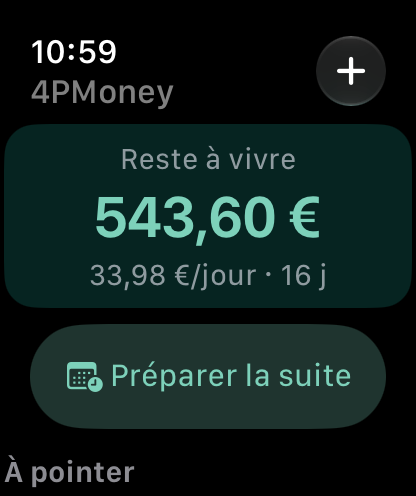
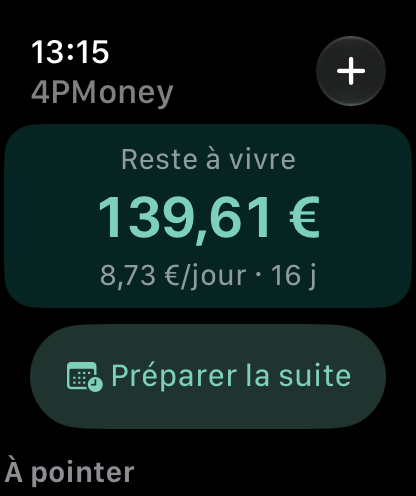
Product page: narrow notch on iPhone frames, depth, refreshed watch visual

diff --git a/index.html b/index.html
@@ -179,6 +179,99 @@ footer nav{display:flex;flex-wrap:wrap;gap:.4rem 1.2rem}
   .btn{width:100%}
   .barre .btn{width:auto}.marque{flex-shrink:0}
 }
+
+/* ——— Profondeur : lumière, relief et plans successifs ——— */
+:root{
+  --relief:0 1px 2px rgba(22,33,31,.06),0 6px 14px -4px rgba(22,33,31,.08),0 22px 44px -18px rgba(22,33,31,.16);
+  --relief-haut:0 2px 4px rgba(22,33,31,.07),0 14px 28px -8px rgba(22,33,31,.14),0 40px 70px -24px rgba(22,33,31,.24);
+  --appareil:0 2px 3px rgba(8,14,13,.35),0 18px 30px -10px rgba(8,14,13,.32),0 60px 90px -30px rgba(8,14,13,.42);
+  --reflet:inset 0 1px 0 rgba(255,255,255,.75);--halo:.30;
+}
+@media (prefers-color-scheme:dark){:root:not([data-theme="light"]){
+  --relief:0 1px 2px rgba(0,0,0,.35),0 8px 18px -6px rgba(0,0,0,.4),0 26px 50px -20px rgba(0,0,0,.55);
+  --relief-haut:0 2px 4px rgba(0,0,0,.4),0 16px 32px -8px rgba(0,0,0,.5),0 44px 80px -24px rgba(0,0,0,.7);
+  --appareil:0 2px 3px rgba(0,0,0,.6),0 18px 30px -10px rgba(0,0,0,.6),0 60px 90px -30px rgba(0,0,0,.8);
+  --reflet:inset 0 1px 0 rgba(255,255,255,.06);--halo:.22;
+}}
+:root[data-theme="dark"]{
+  --relief:0 1px 2px rgba(0,0,0,.35),0 8px 18px -6px rgba(0,0,0,.4),0 26px 50px -20px rgba(0,0,0,.55);
+  --relief-haut:0 2px 4px rgba(0,0,0,.4),0 16px 32px -8px rgba(0,0,0,.5),0 44px 80px -24px rgba(0,0,0,.7);
+  --appareil:0 2px 3px rgba(0,0,0,.6),0 18px 30px -10px rgba(0,0,0,.6),0 60px 90px -30px rgba(0,0,0,.8);
+  --reflet:inset 0 1px 0 rgba(255,255,255,.06);--halo:.22;
+}
+
+/* Les appareils inclinés ne doivent jamais élargir la page. */
+main{overflow-x:clip}
+/* Fond du haut de page : quatre lueurs aux couleurs des enveloppes, derrière tout le reste. */
+.hero{position:relative;overflow:hidden;isolation:isolate}
+.hero::before{content:"";position:absolute;inset:-20% -10% -10%;z-index:-1;pointer-events:none;opacity:var(--halo);filter:blur(60px);
+  background:
+    radial-gradient(34rem 26rem at 78% 30%,var(--prevoir),transparent 70%),
+    radial-gradient(26rem 22rem at 96% 72%,var(--profiter),transparent 70%),
+    radial-gradient(24rem 20rem at 58% 88%,var(--plaisir),transparent 70%),
+    radial-gradient(26rem 20rem at 8% 6%,var(--proteger),transparent 70%)}
+.hero::after{content:"";position:absolute;inset:auto 0 0;height:7rem;z-index:-1;pointer-events:none;background:linear-gradient(to bottom,transparent,var(--fond))}
+
+/* Téléphone : châssis à reflet, encoche étroite, vitre, ombre portée en trois couches. */
+.tel{position:relative;background:linear-gradient(145deg,#4b5654 0%,#0c1211 22%,#0a0f0e 78%,#39433f 100%);border:0;
+  box-shadow:inset 0 0 0 1.5px rgba(255,255,255,.14),inset 0 0 0 3px #050908,var(--appareil)}
+.tel::before{content:"";position:absolute;z-index:2;left:50%;top:calc(.55rem + 1.55%);width:20%;aspect-ratio:3.2/1;transform:translateX(-50%);border-radius:999px;
+  background:radial-gradient(circle at 76% 50%,#1b2a3a 0 9%,#0b1016 10% 15%,transparent 16%),#000;box-shadow:0 0 0 1px rgba(255,255,255,.05)}
+.tel::after{content:"";position:absolute;inset:.55rem;z-index:1;border-radius:2.4rem;pointer-events:none;
+  background:linear-gradient(118deg,rgba(255,255,255,.16) 0%,rgba(255,255,255,.04) 22%,transparent 38%)}
+.visuel .tel::before{top:calc(.55rem + 1.55%)}
+.montre{background:linear-gradient(145deg,#4b5654 0%,#0c1211 24%,#0a0f0e 76%,#39433f 100%);border:0;
+  box-shadow:inset 0 0 0 1.5px rgba(255,255,255,.14),var(--appareil)}
+
+/* Scène d'ouverture : téléphone incliné, montre au premier plan, socle lumineux et ombre au sol. */
+.scene{perspective:1500px;--tx:0;--ty:0;--d:0px}
+.scene::before{content:"";position:absolute;left:50%;top:46%;width:30rem;max-width:120%;aspect-ratio:1;transform:translate(-50%,-50%);border-radius:50%;z-index:-1;pointer-events:none;
+  background:radial-gradient(closest-side,color-mix(in srgb,var(--carte) 85%,transparent),transparent 72%)}
+.scene::after{content:"";position:absolute;left:50%;bottom:-1.6rem;width:19rem;max-width:80%;height:2.6rem;transform:translateX(-46%);border-radius:50%;z-index:-1;pointer-events:none;
+  background:radial-gradient(closest-side,rgba(8,14,13,.38),transparent);filter:blur(10px)}
+.scene .tel{transform:translateY(calc(var(--d) * -.35)) rotateY(calc(-13deg + var(--tx) * 6deg)) rotateX(calc(5deg + var(--ty) * -5deg)) rotateZ(1.2deg);transform-origin:50% 60%;transition:transform .5s cubic-bezier(.2,.7,.2,1);will-change:transform}
+.scene .montre{z-index:3;transform:translateY(calc(var(--d) * -.9)) translateZ(90px) rotateY(calc(9deg + var(--tx) * 9deg)) rotateX(calc(var(--ty) * -6deg)) rotateZ(-3deg);transition:transform .5s cubic-bezier(.2,.7,.2,1);will-change:transform}
+
+/* Captures des étapes : inclinaison alternée et lueur de la couleur de l'enveloppe concernée. */
+.visuel{perspective:1300px;position:relative;isolation:isolate}
+.visuel::before{content:"";position:absolute;left:50%;top:50%;width:26rem;max-width:115%;aspect-ratio:1;transform:translate(-50%,-50%);border-radius:50%;z-index:-1;pointer-events:none;filter:blur(40px);opacity:var(--halo);
+  background:radial-gradient(closest-side,var(--lueur,var(--prevoir)),transparent 75%)}
+.etape:nth-child(2) .visuel{--lueur:var(--plaisir)}.etape:nth-child(3) .visuel{--lueur:var(--proteger)}
+.visuel .tel{transform:rotateY(-11deg) rotateX(3deg);transition:transform .7s cubic-bezier(.2,.7,.2,1)}
+.etape:nth-child(even) .visuel .tel{transform:rotateY(11deg) rotateX(3deg)}
+.etape:hover .visuel .tel{transform:rotateY(-4deg) rotateX(1deg) translateY(-6px)}
+.etape:nth-child(even):hover .visuel .tel{transform:rotateY(4deg) rotateX(1deg) translateY(-6px)}
+
+/* Cartes : reflet en haut, ombre en couches, léger soulèvement au survol. */
+.env,.regle,.app,.pilier,.offre,.edition{box-shadow:var(--reflet),var(--relief);transition:transform .35s cubic-bezier(.2,.7,.2,1),box-shadow .35s ease}
+.simu{box-shadow:var(--reflet),var(--relief-haut)}
+.offre.mise{box-shadow:var(--reflet),var(--relief-haut);transform:translateY(-.5rem)}
+@media (hover:hover){
+  .env:hover,.regle:hover,.app:hover,.pilier:hover,.edition:hover,.offre:hover{transform:translateY(-5px);box-shadow:var(--reflet),var(--relief-haut)}
+  .offre.mise:hover{transform:translateY(-.8rem)}
+}
+.env{background-image:linear-gradient(160deg,color-mix(in srgb,var(--carte) 55%,transparent),transparent 55%)}
+.app .cadre{box-shadow:var(--relief)}
+.btn.plein{box-shadow:inset 0 1px 0 rgba(255,255,255,.22),0 8px 18px -8px color-mix(in srgb,var(--accent) 70%,transparent)}
+.btn{transition:transform .2s ease,box-shadow .2s ease}.btn:hover{transform:translateY(-1px)}
+.fin img{box-shadow:var(--relief-haut)}
+.etape .rang{box-shadow:0 6px 14px -6px color-mix(in srgb,var(--accent) 80%,transparent)}
+
+/* Sections teintées : en creux, comme un plan situé derrière la page. */
+section.teinte{background:linear-gradient(to bottom,color-mix(in srgb,var(--teinte) 100%,transparent),var(--teinte) 60%,color-mix(in srgb,var(--teinte) 70%,var(--fond)));box-shadow:inset 0 14px 22px -18px rgba(8,14,13,.22),inset 0 -14px 22px -18px rgba(8,14,13,.14)}
+header.barre{box-shadow:0 10px 24px -20px rgba(8,14,13,.5)}
+
+@media (max-width:60rem){
+  .scene{margin-top:1rem;padding-bottom:1.5rem}
+  .scene .tel{transform:rotateY(-8deg) rotateX(3deg) rotateZ(.8deg)}
+  .scene .montre{transform:translateZ(60px) rotateY(7deg) rotateZ(-3deg)}
+  .visuel .tel,.etape:nth-child(even) .visuel .tel{transform:rotateY(-7deg) rotateX(2deg)}
+  .offre.mise{transform:none}
+}
+@media (prefers-reduced-motion:reduce){
+  .scene .tel,.scene .montre,.visuel .tel,.env,.regle,.app,.pilier,.offre,.edition,.btn{transition:none}
+  .env:hover,.regle:hover,.app:hover,.pilier:hover,.edition:hover,.offre:hover,.btn:hover{transform:none}
+}
 </style>
 </head>
 <body>
@@ -500,6 +593,26 @@ footer nav{display:flex;flex-wrap:wrap;gap:.4rem 1.2rem}
     var obs=new IntersectionObserver(function(es){es.forEach(function(e){if(e.isIntersecting){e.target.classList.add("vu");obs.unobserve(e.target)}})},{rootMargin:"0px 0px -8% 0px"});
     els.forEach(function(e){obs.observe(e)});
   }else{els.forEach(function(e){e.classList.add("vu")})}
+
+  // Profondeur : la scène d'ouverture suit doucement le pointeur et le défilement (jamais si « Réduire les animations »).
+  var scene=document.querySelector(".scene");
+  if(scene&&!matchMedia("(prefers-reduced-motion: reduce)").matches){
+    if(matchMedia("(hover:hover) and (pointer:fine)").matches){
+      var hero=document.querySelector(".hero");
+      hero.addEventListener("pointermove",function(e){
+        var r=scene.getBoundingClientRect();
+        var x=Math.max(-1,Math.min(1,(e.clientX-(r.left+r.width/2))/(r.width/2)));
+        var y=Math.max(-1,Math.min(1,(e.clientY-(r.top+r.height/2))/(r.height/2)));
+        scene.style.setProperty("--tx",x.toFixed(3));scene.style.setProperty("--ty",y.toFixed(3));
+      });
+      hero.addEventListener("pointerleave",function(){scene.style.setProperty("--tx",0);scene.style.setProperty("--ty",0)});
+    }
+    var attente=false;
+    addEventListener("scroll",function(){
+      if(attente)return;attente=true;
+      requestAnimationFrame(function(){attente=false;scene.style.setProperty("--d",Math.min(60,scrollY*.08).toFixed(1)+"px")});
+    },{passive:true});
+  }
 })();
 </script>
 </body>
